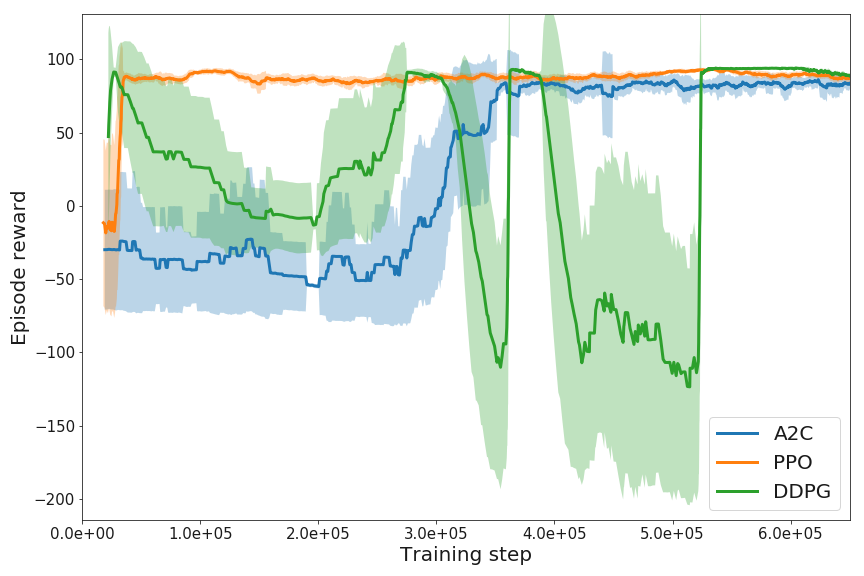
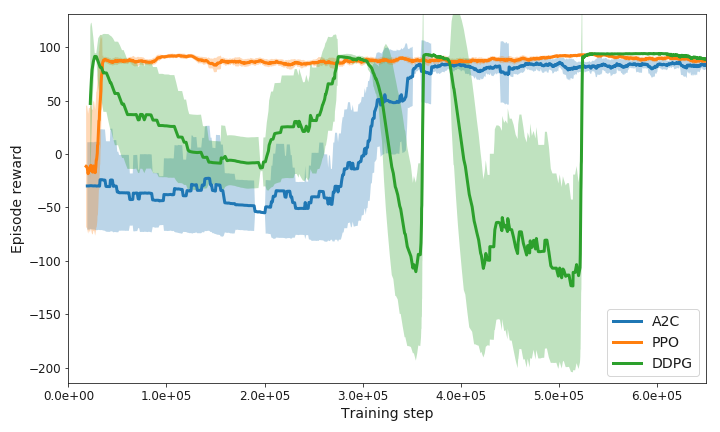
update fig size

diff --git a/README.md b/README.md
@@ -33,7 +33,7 @@ MountainCarContinuous      | MountainCar
 1. The default 500 maximum episode length is too short for DDPG to explore a successful trace so it is relaxed to 2000 in this comparison. 
 2. The convergence comparison may not be meaningful since it mostly depends how fast the agent could explore a sucessful trace to get the sparse reward, under a random behavior policy.
 3. DDPG training takes much longer time, as the in-memory replay buffer grows during training.
-![](./docs/contcar_comp.png =200x150)
+![](./docs/contcar_comp.png)
 
 
 
